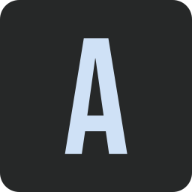
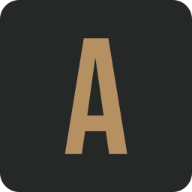
Add header text. add header hero image. change style of color palette for website page.

Changed region(s): [[0.3125, 0.1875, 0.6875, 0.8125]]

diff --git a/index.html b/index.html
@@ -11,11 +11,12 @@
     <link rel="apple-touch-icon" sizes="180x180" href="assets/images/apple-touch-icon.png">
     <link rel="icon" type="image/png" sizes="32x32" href="assets/images/favicon-32x32.png">
     <link rel="icon" type="image/png" sizes="16x16" href="assets/images/favicon-16x16.png">
-
-
+    
     <!-- Bootstrap v5.3 CSS Link-->
     <link href="https://cdn.jsdelivr.net/npm/bootstrap@5.3.6/dist/css/bootstrap.min.css" rel="stylesheet"
         integrity="sha384-4Q6Gf2aSP4eDXB8Miphtr37CMZZQ5oXLH2yaXMJ2w8e2ZtHTl7GptT4jmndRuHDT" crossorigin="anonymous">
+    
+    <!-- Custom CSS -->
     <link rel="stylesheet" href="assets/CSS/style.css">
 </head>
 
@@ -24,9 +25,12 @@
 <body class="d-flex flex-column min-vh-100">
     <!-- Navigation -->
     <div>
-        <nav class="navbar navbar-expand-lg bg-body-tertiary">
+        <nav id="navbar" class="navbar navbar-expand-lg" data-bs-theme="dark">
             <div class="container">
-                <a class="navbar-brand" href="#">Navbar</a>
+                <!-- Navbar Logo -->
+                <a class="navbar-brand" href="#">
+                    <img src="assets/images/5b8c0c679359f106599e3a31455218e3.png" alt="Athlete logo" class="logo">
+                </a>
                 <button class="navbar-toggler" type="button" data-bs-toggle="collapse" data-bs-target="#navbarNav"
                     aria-controls="navbarNav" aria-expanded="false" aria-label="Toggle navigation">
                     <span class="navbar-toggler-icon"></span>
@@ -34,16 +38,16 @@
                 <div class="collapse navbar-collapse" id="navbarNav">
                     <ul class="navbar-nav ms-auto">
                         <li class="nav-item">
-                            <a class="nav-link active" aria-current="page" href="index.html">Home</a>
+                            <a class="nav-link active nav-text" aria-current="page" href="index.html">Home</a>
                         </li>
-                        <li class="nav-item">
+                        <li class="nav-item nav-text">
                             <a class="nav-link" href="store.html">Store</a>
                         </li>
-                        <li class="nav-item">
+                        <li class="nav-item nav-text">
                             <a class="nav-link" href="#">About</a>
                         </li>
                         <li class="nav-item">
-                            <a class="nav-link disabled" aria-disabled="true">Disabled</a>
+                            <a class="nav-link disabled nav-text" aria-disabled="true">Disabled</a>
                         </li>
                     </ul>
                 </div>
@@ -53,10 +57,17 @@
     <!---------------->
 
     <!-- Header With General Info About Gym -->
-    <header class="container">
+    <header id="header" class="container section" >
         <div class="row">
-            <div class="col-12 col-xl-6">Gym Information</div>
-            <div class="col-12 col-xl-6">Map</div>
+            <div class="col-12 text-center">
+                <h1 class="display-3">ATHLETE</h1>
+                <p class="my-4">At ATHLETE, we’re not just a gym — we’re a mindset. 
+                    Whether you're chasing personal records, building strength, or transforming your lifestyle, this is where athletes are made. With state-of-the-art equipment,
+                     expert coaching, and a community that pushes you to be your best, ATHLETE is where grit meets greatness. 
+                    No matter your level, if you’ve got the drive, you belong here. 
+                </p>
+            </div>
+            <div class="col-12"><img id="header-image" src="assets/images/gym-5977600_1922.jpg" alt="Picture Of Gym"></div>
         </div>
     </header>
     <!------------------------------------------>

diff --git a/assets/CSS/style.css b/assets/CSS/style.css
@@ -3,6 +3,8 @@
 cfe1f6
 807a76
 adadaa
+3d4040
+b3b2ae
 
 */
 /* Google Fonts Link */
@@ -13,7 +15,8 @@ adadaa
     --primary-font: "Bebas Neue", sans-serif;
     --secondary-font: "Oswald", sans-serif;
     --primary-color: #262828; /* Dark Grey */
-    --secondary-color: #v; /* Light Blue */
+    --secondary-color: #b59063; /* Light Brown  */
+    --sub-color: #b3b2ae; /* Light Grey */
 }
 
 /* Global Styles */
@@ -28,8 +31,39 @@ h1, h2, h3 {
 }
 
 p {
-    border: 2px solid var(--primary-color);
+    color: var(--primary-color);
+    font-family: var(--secondary-font);
+    font-size: 1.3rem;
 }
+
+.section {
+    margin-top: 2rem;
+    margin-bottom: 2rem;
+}
+
+/* Navbar */
+
+#navbar {
+    background-color: var(--primary-color);
+}
+
+#navbar .logo {
+    width: 120px;
+}
+
+#navbar .nav-text {
+    font-size: 20px;
+    font-family: var(--primary-font);
+    color: var(--secondary-color);
+}
+/* Header */
+
+#header #header-image {
+    align-items: center;
+    max-width: 100%;
+    height: auto;
+}
+
 
 /* Grid Visualisation 
 
